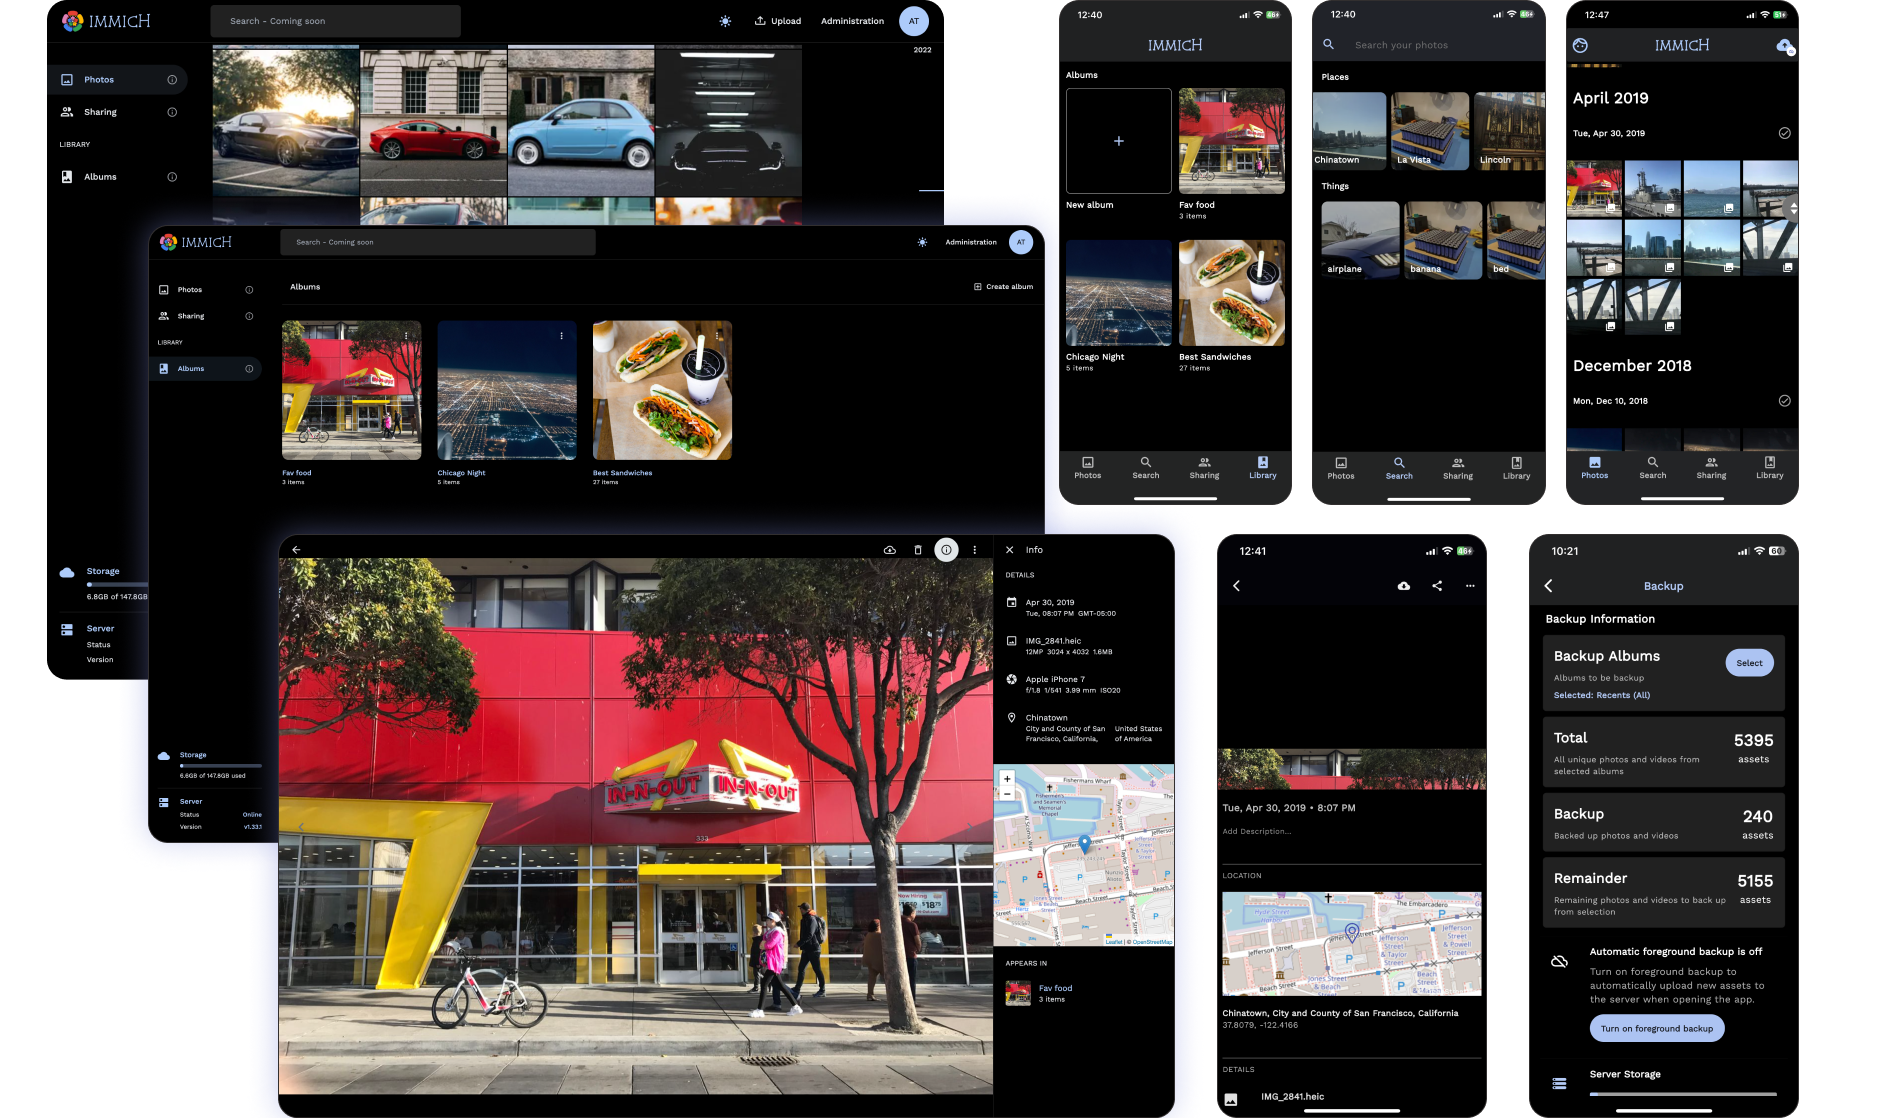
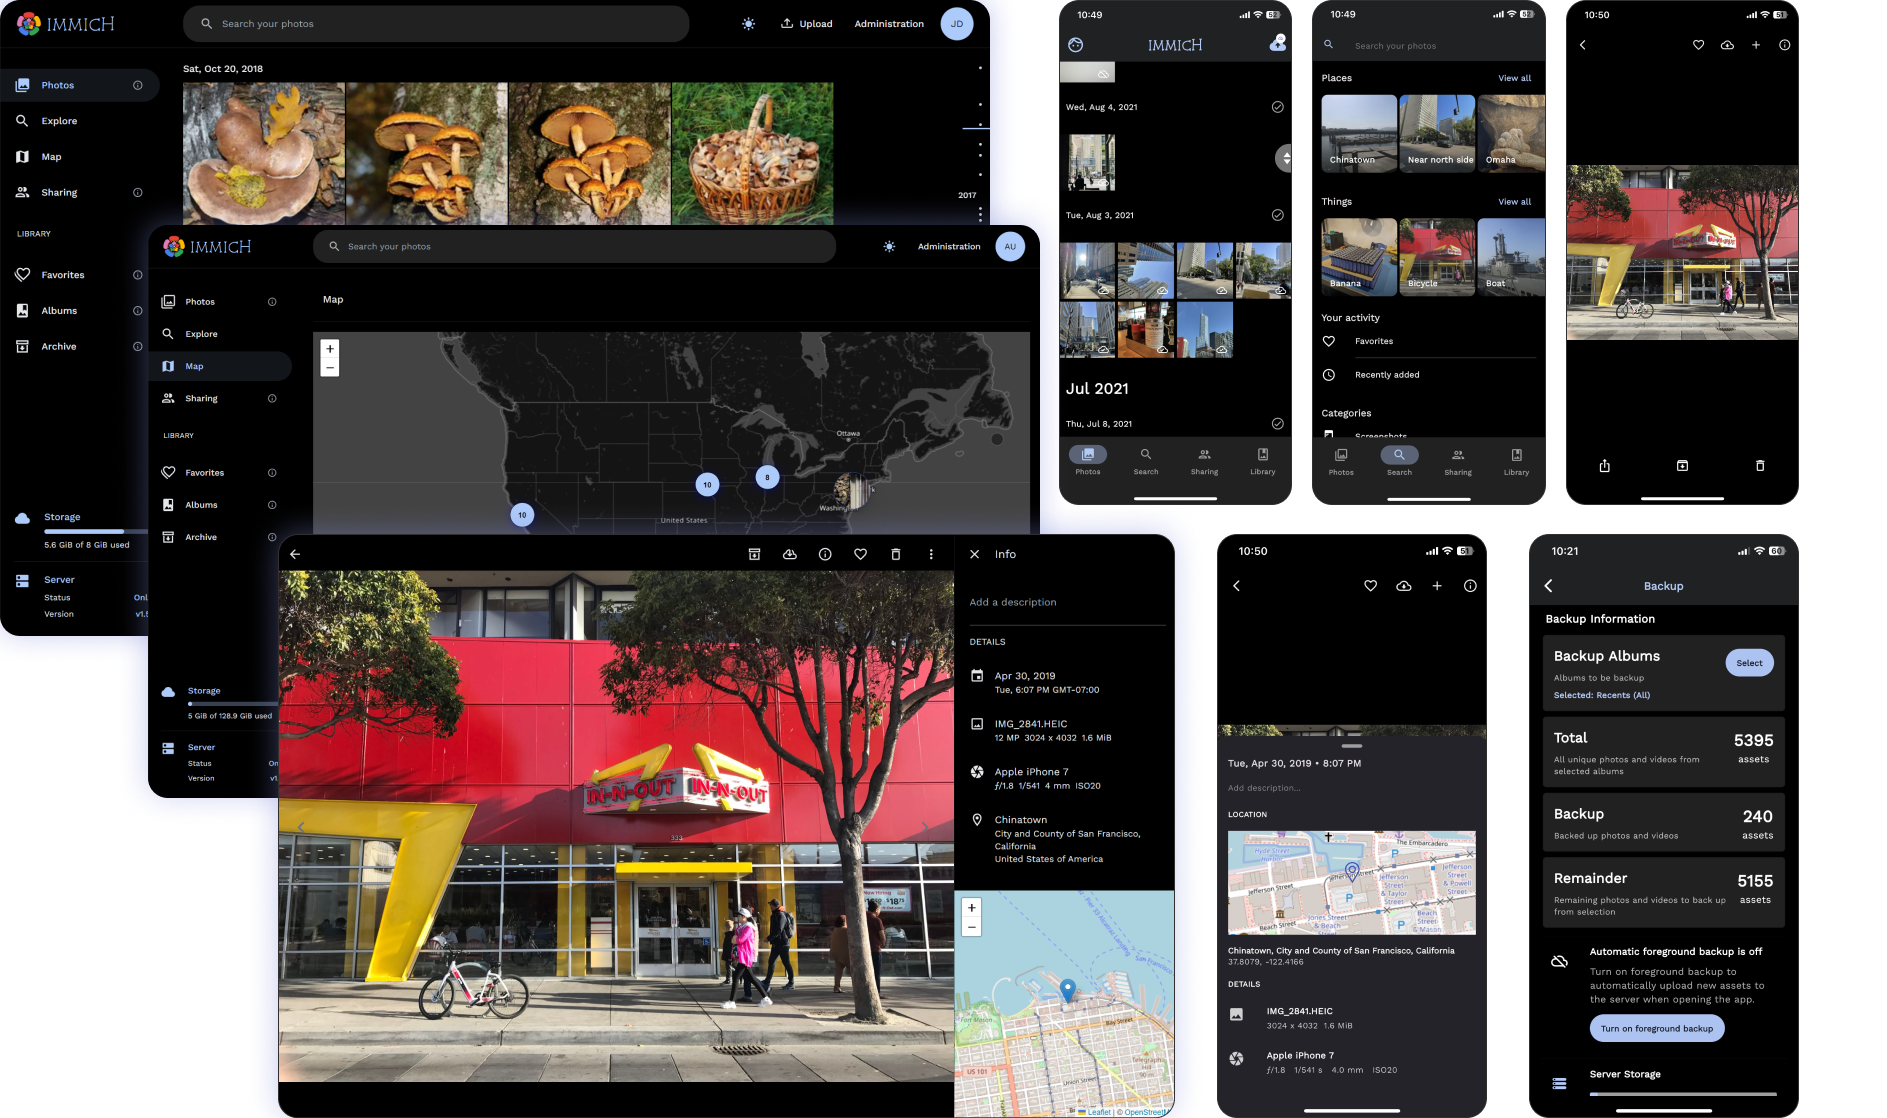
chore: update screenshots for readme and docs (#2425)
* update screenshot

* better quality for docs

diff --git a/docs/src/pages/index.tsx b/docs/src/pages/index.tsx
@@ -31,7 +31,7 @@ function HomepageHeader() {
           </Link>
         </div>
 
-        <img src="/img/immich-screenshots.webp" alt="logo" />
+        <img src="/img/immich-screenshots.png" alt="logo" />
       </section>
     </header>
   );
